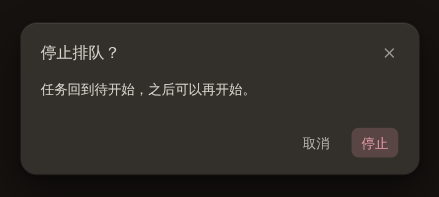
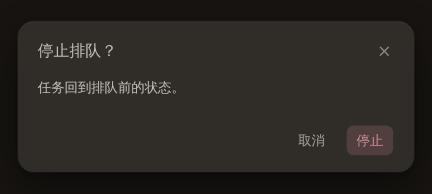
web(1446): the queued stop dialog says where the task goes; a synchronous stop clears 正在停止
The queued stop dialog said the task goes back to 待开始. The server falls
back to the build's starting phase (stopFallbackPhase): 待开始 on a first
run, failed or done on a rerun. The line now reads 任务回到排队前的状态。

The detail page sets its 正在停止… flag when a stop is confirmed and
clears it when no step is running. A waiting_quota step never counts as
running there, so after a synchronous stop ({delegated:false}) the flag
stayed set, and the next step on the same build read 正在停止… instead of
处理中…. The page now clears the flag when the server answers
delegated:false.

detail-queued-exit.spec gains the synchronous-stop case, red before the
fix. Evidence in docs/verify/1446/.

Claude-Session: https://claude.ai/code/session_01RwyHzR7QjrFhQiVttR7Xza

diff --git a/apps/web/e2e/detail-queued-exit.spec.ts b/apps/web/e2e/detail-queued-exit.spec.ts
@@ -13,7 +13,12 @@ import { evidencePanelShot } from './evidence';
 //      means nothing for a step that never ran) or sends nothing;
 //   3. 关闭 sends nothing;
 //   4. the change leaks to planning / building: a menu 停止 appears or 关闭
-//      turns on (their stop stays in the composer, 关闭 stays off mid-run).
+//      turns on (their stop stays in the composer, 关闭 stays off mid-run);
+//   5. a synchronous stop ({delegated:false}: the server stopped the step on
+//      the spot) leaves the page's 正在停止… flag set. A waiting_quota step
+//      never counts as running, so nothing clears it, and the next step on the
+//      same build (plan done → 确认 → build step) reads 正在停止… instead of
+//      处理中….
 
 const TEAM = { id: 'team-1', name: 'Team', createdAt: 0, plan: 'free', avatarStyle: null };
 const USER = { id: 'user-1', displayName: '我', avatarUrl: null };
@@ -116,6 +121,64 @@ test('queued: 更多 offers 停止, and confirming it stops the build', async ({
   await expect.poll(() => sent.stops.map((s) => s.path)).toEqual([
     `/api/builds/${QUEUED.latestBuildId}/stop`,
   ]);
+});
+
+test('queued: a synchronous stop leaves no 正在停止… behind', async ({ page }) => {
+  const sent = await stubLiveBoot(page);
+  const buildId = QUEUED.latestBuildId;
+  const step = (id: string, kind: string, status: string, createdAt: number) => ({
+    id,
+    buildId,
+    kind,
+    machineId: status === 'claimed' ? 'machine-1' : null,
+    createdAt,
+    status,
+    checkpointCommit: null,
+    skillInjection: null,
+  });
+  const BUILD = {
+    id: buildId,
+    todoId: QUEUED.id,
+    withPlan: true,
+    prevPhase: null,
+    triggerSource: 'user',
+    planDocId: null,
+    errorMessage: null,
+    prUrl: null,
+    prNumber: null,
+    diffHash: null,
+    createdAt: STARTED_AT,
+  };
+  // Before the stop: the plan is done and the build step waits on quota. After
+  // it: that step is stopped and a later build step on the same build runs.
+  const before = [
+    step('step-plan', 'plan', 'done', STARTED_AT),
+    step('step-build', 'build', 'waiting_quota', STARTED_AT + 1),
+  ];
+  const after = [
+    step('step-plan', 'plan', 'done', STARTED_AT),
+    step('step-build', 'build', 'stopped', STARTED_AT + 1),
+    step('step-build-2', 'build', 'claimed', STARTED_AT + 2),
+  ];
+  await page.route(`**/api/builds/${buildId}`, (route) => route.fulfill({ json: BUILD }));
+  await page.route(`**/api/builds/${buildId}/steps`, (route) =>
+    route.fulfill({ json: sent.stops.length === 0 ? before : after }),
+  );
+  await page.route(`**/api/todos/${QUEUED.id}`, (route) =>
+    route.fulfill({
+      json: sent.stops.length === 0 ? QUEUED : { ...QUEUED, phase: 'building', v: QUEUED.v + 1 },
+    }),
+  );
+
+  await openMore(page, QUEUED.id, '排队中');
+  await row(page, '停止').click();
+  await page
+    .getByRole('dialog', { name: '停止排队？' })
+    .getByRole('button', { name: '停止', exact: true })
+    .click();
+  await expect(head(page).getByTestId('phase-chip')).toHaveText('执行中');
+  await expect(page.getByTestId('live-row')).toContainText('处理中');
+  await expect(page.getByTestId('live-row')).not.toContainText('正在停止');
 });
 
 test('queued: 更多 > 关闭 is enabled and closes the task', async ({ page }) => {

diff --git a/apps/web/src/routes/todo-detail-page.tsx b/apps/web/src/routes/todo-detail-page.tsx
@@ -1051,7 +1051,7 @@ export function TodoDetailPage() {
         onCloseTask={closeTask}
         canClose={canClose}
         // #1446：queued 卡没有 composer，停止钮住更多菜单（停掉等机器的步，
-        // 卡回待开始）；其余相位缺省 = 行不渲染。
+        // 卡回排队前的相位）；其余相位缺省 = 行不渲染。
         onStop={
           live && phase === 'queued' && buildId != null
             ? () => {
@@ -1106,8 +1106,19 @@ export function TodoDetailPage() {
           // 乐观过渡态（r9 §3.3「正在停止…」）：确认即置位；终态由 SSE step
           // 事件重取回显（running 转 false 清旗标）。409 竞态（步已收尾）=
           // 数据面已前进，清旗标 + invalidateAll 重取即收敛。
+          // delegated:false = 服务端已当场停掉（pending / waiting_quota 步，#1261），
+          // 没有在途中断可等；waiting_quota 步不算 running，上面的清旗 effect
+          // 不会触发，不清就带到同 build 的下一步（#1446）。
           setStopping(true);
-          mutations.stopBuild.mutate({ buildId, discard }, { onError: () => setStopping(false) });
+          mutations.stopBuild.mutate(
+            { buildId, discard },
+            {
+              onSuccess: (res) => {
+                if (!res.delegated) setStopping(false);
+              },
+              onError: () => setStopping(false),
+            },
+          );
         }}
       />
       <AcceptDialog

diff --git a/apps/web/src/detail/stop-confirm-dialog.tsx b/apps/web/src/detail/stop-confirm-dialog.tsx
@@ -4,7 +4,8 @@
 // checkpoint）+ footer 取消/停止。仅 live 面接线（fixture 捕获面无后端，
 // 停止钮不挂 handler，DOM 字节不变）。
 // #1446 queued 档：等机器的步还没跑过，没有「本轮修改」可丢——换「停止排队？」
-// 头 + 一句去向说明，不出复选行。
+// 头 + 一句去向说明，不出复选行。去向 = 服务端 stopFallbackPhase（首轮回待开始，
+// 重跑回本轮起点如失败/已完成），故文案只说「排队前」。
 
 import { useState } from 'react';
 import { Button } from '../components/ui/button.js';
@@ -53,7 +54,7 @@ export function StopConfirmDialog({ open, onClose, onConfirm, queued }: StopConf
       }
     >
       {queued === true ? (
-        <p className="m-0 text-ui text-foreground">{t('任务回到待开始，之后可以再开始。')}</p>
+        <p className="m-0 text-ui text-foreground">{t('任务回到排队前的状态。')}</p>
       ) : (
         <div className="flex items-center gap-2">
           {/* XMON-72：与 accept-dialog 同族，收口 components/ui/checkbox 原语

diff --git a/apps/web/src/i18n/en.ts b/apps/web/src/i18n/en.ts
@@ -134,8 +134,7 @@ export const EN: Record<string, string> = {
   '团队技能来自技能页面（共 {count} 个）': 'Team skills come from the Skills page ({count} total)',
   '停止当前这一轮？': 'Stop this round?',
   '停止排队？': 'Stop queueing?',
-  '任务回到待开始，之后可以再开始。':
-    'The task goes back to the To start column. You can start it again later.',
+  '任务回到排队前的状态。': 'The task goes back to where it was before it was queued.',
   '丢弃本轮修改——方案和代码回到上一个版本':
     'Discard this round’s changes — plan and code revert to the previous version',
   '把任务重置回待开始？': 'Reset the task back to Todo?',

diff --git a/apps/web/src/overlay/more-menu.tsx b/apps/web/src/overlay/more-menu.tsx
@@ -43,7 +43,7 @@ interface MoreMenuProps {
   /** #318: 关闭 = phase closed 落账;可关相位由页面层判定（canClose）。 */
   onCloseTask: () => void;
   canClose: boolean;
-  /** #1446: queued 卡的停止（停掉等机器的 pending 步，卡回待开始）——
+  /** #1446: queued 卡的停止（停掉等机器的 pending 步，卡回排队前的相位）——
    *  它没有 composer，停止钮无处可挂；缺省 = 行不渲染。 */
   onStop?: () => void;
   /** #701: 审核关口人肉打回（请求修改）——live review 静息态在场；缺省 =

diff --git a/docs/verify/1446/README.md b/docs/verify/1446/README.md
@@ -2,19 +2,20 @@
 
 Base = this branch before the #1446 commit (web unchanged since `bbd1e858`). Branch = `claude/optimistic-albattani-r5pmfn`.
 
-A queued task's 更多 menu shows 停止 (`apps/web/src/overlay/more-menu.tsx` `onStop`, wired in `routes/todo-detail-page.tsx` for a live queued task with a build). It opens `StopConfirmDialog` in its queued form: title 停止排队？, one line saying the task goes back to 待开始, no "discard this round" checkbox. Confirming calls the existing `POST /api/builds/:id/stop`. 更多 > 关闭 is enabled for queued (`detail/use-detail-actions.ts` `canClose`); the server stops the pending step before closing (#1445). planning / building are unchanged.
+A queued task's 更多 menu shows 停止 (`apps/web/src/overlay/more-menu.tsx` `onStop`, wired in `routes/todo-detail-page.tsx` for a live queued task with a build). It opens `StopConfirmDialog` in its queued form: title 停止排队？, one line saying the task goes back to where it was before it was queued (待开始 on a first run, the run's starting phase on a rerun, per the server's `stopFallbackPhase`), no "discard this round" checkbox. Confirming calls the existing `POST /api/builds/:id/stop`. 更多 > 关闭 is enabled for queued (`detail/use-detail-actions.ts` `canClose`); the server stops the pending step before closing (#1445). planning / building are unchanged.
 
 ## e2e: `apps/web/e2e/detail-queued-exit.spec.ts`
 
 Stubbed live boot (no `?scenario=`): one queued task and one planning task, each with a build. The stop POST and the todo PATCH are recorded.
 
 - `e2e-old-leg.txt`: before the change. 2 failed / 1 passed. The queued menu has no 停止 (`element(s) not found`), and its 关闭 is disabled (`Received: disabled`). The planning control passes.
-- `e2e-new-leg.txt`: after. 3 passed. 停止 → dialog 停止排队？ with no checkbox → `POST /api/builds/build-todo-queued/stop`; 关闭 → `PATCH /api/todos/todo-queued {phase:'closed'}`; planning shows no menu 停止 and keeps 关闭 disabled.
+- `e2e-sync-stop-old-leg.txt`: the code-review follow-up, before its fix. The 4th test fails: after a synchronous stop (`{delegated:false}`) of a waiting_quota step, the next step on the same build reads `正在停止…` instead of 处理中. A waiting_quota step never counts as running on the detail page, so nothing cleared the optimistic flag. The fix clears it when the server answers `delegated:false`.
+- `e2e-new-leg.txt`: after. 4 passed. 停止 → dialog 停止排队？ with no checkbox → `POST /api/builds/build-todo-queued/stop`; a synchronous stop leaves 处理中, not 正在停止…; 关闭 → `PATCH /api/todos/todo-queued {phase:'closed'}`; planning shows no menu 停止 and keeps 关闭 disabled.
 
 | shot | `old/` | `new/` |
 |---|---|---|
 | `queued-more-menu.png` | 完成 / 复制链接 / 关闭 (disabled) / 删除 | 完成 / 停止 / 复制链接 / 关闭 / 删除 |
-| `queued-stop-dialog.png` | (no 停止 to open) | 停止排队？, one line, 取消 / 停止 |
+| `queued-stop-dialog.png` | (no 停止 to open) | 停止排队？, 任务回到排队前的状态。, 取消 / 停止 |
 
 ## Rerun
 
